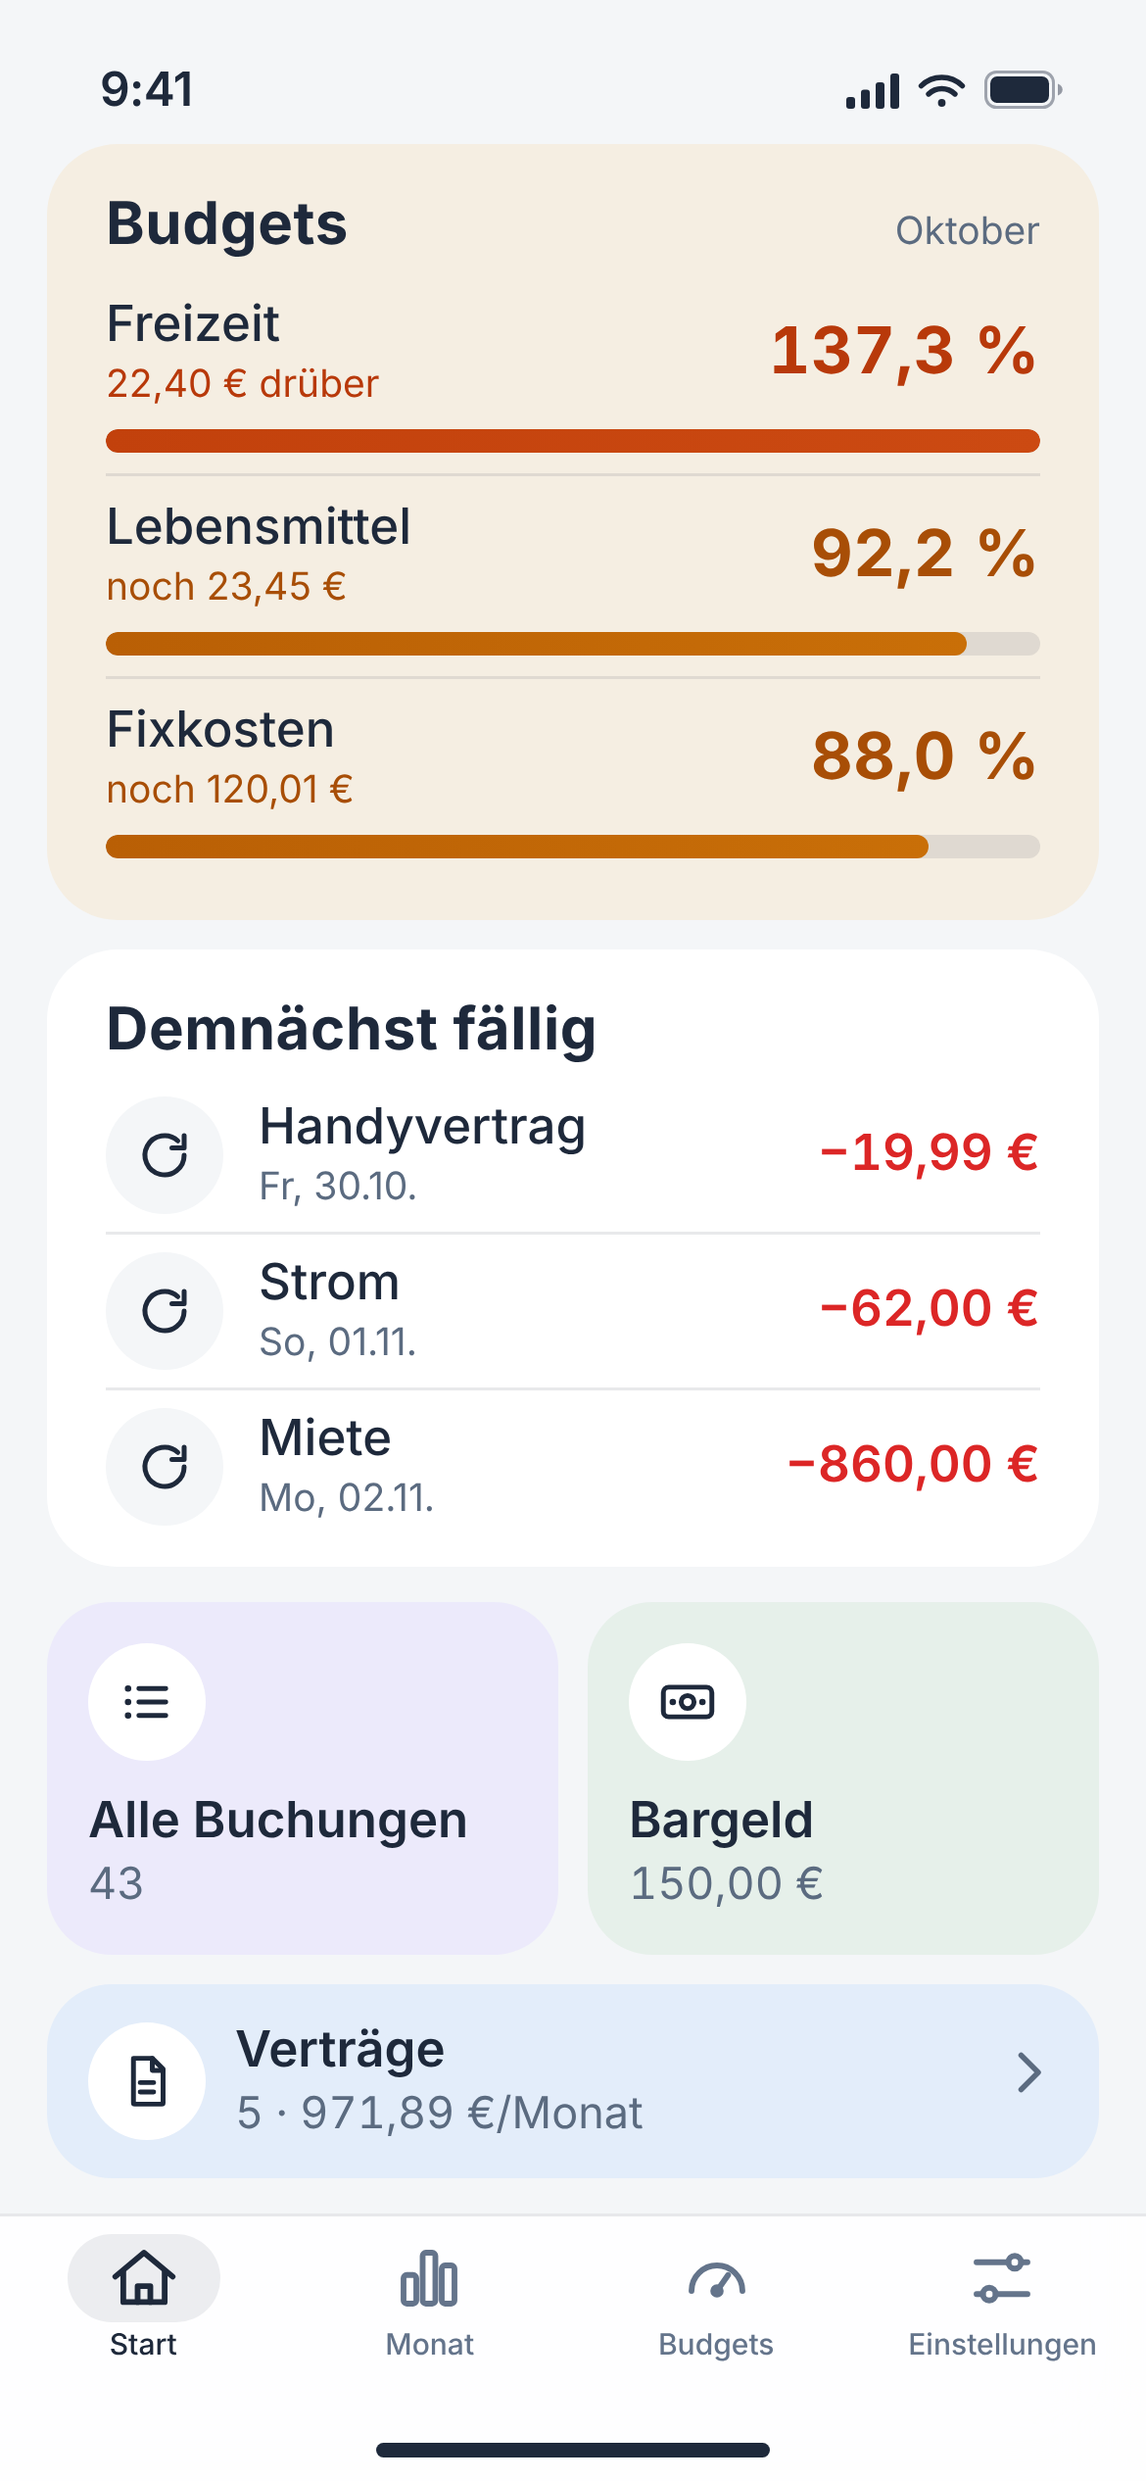
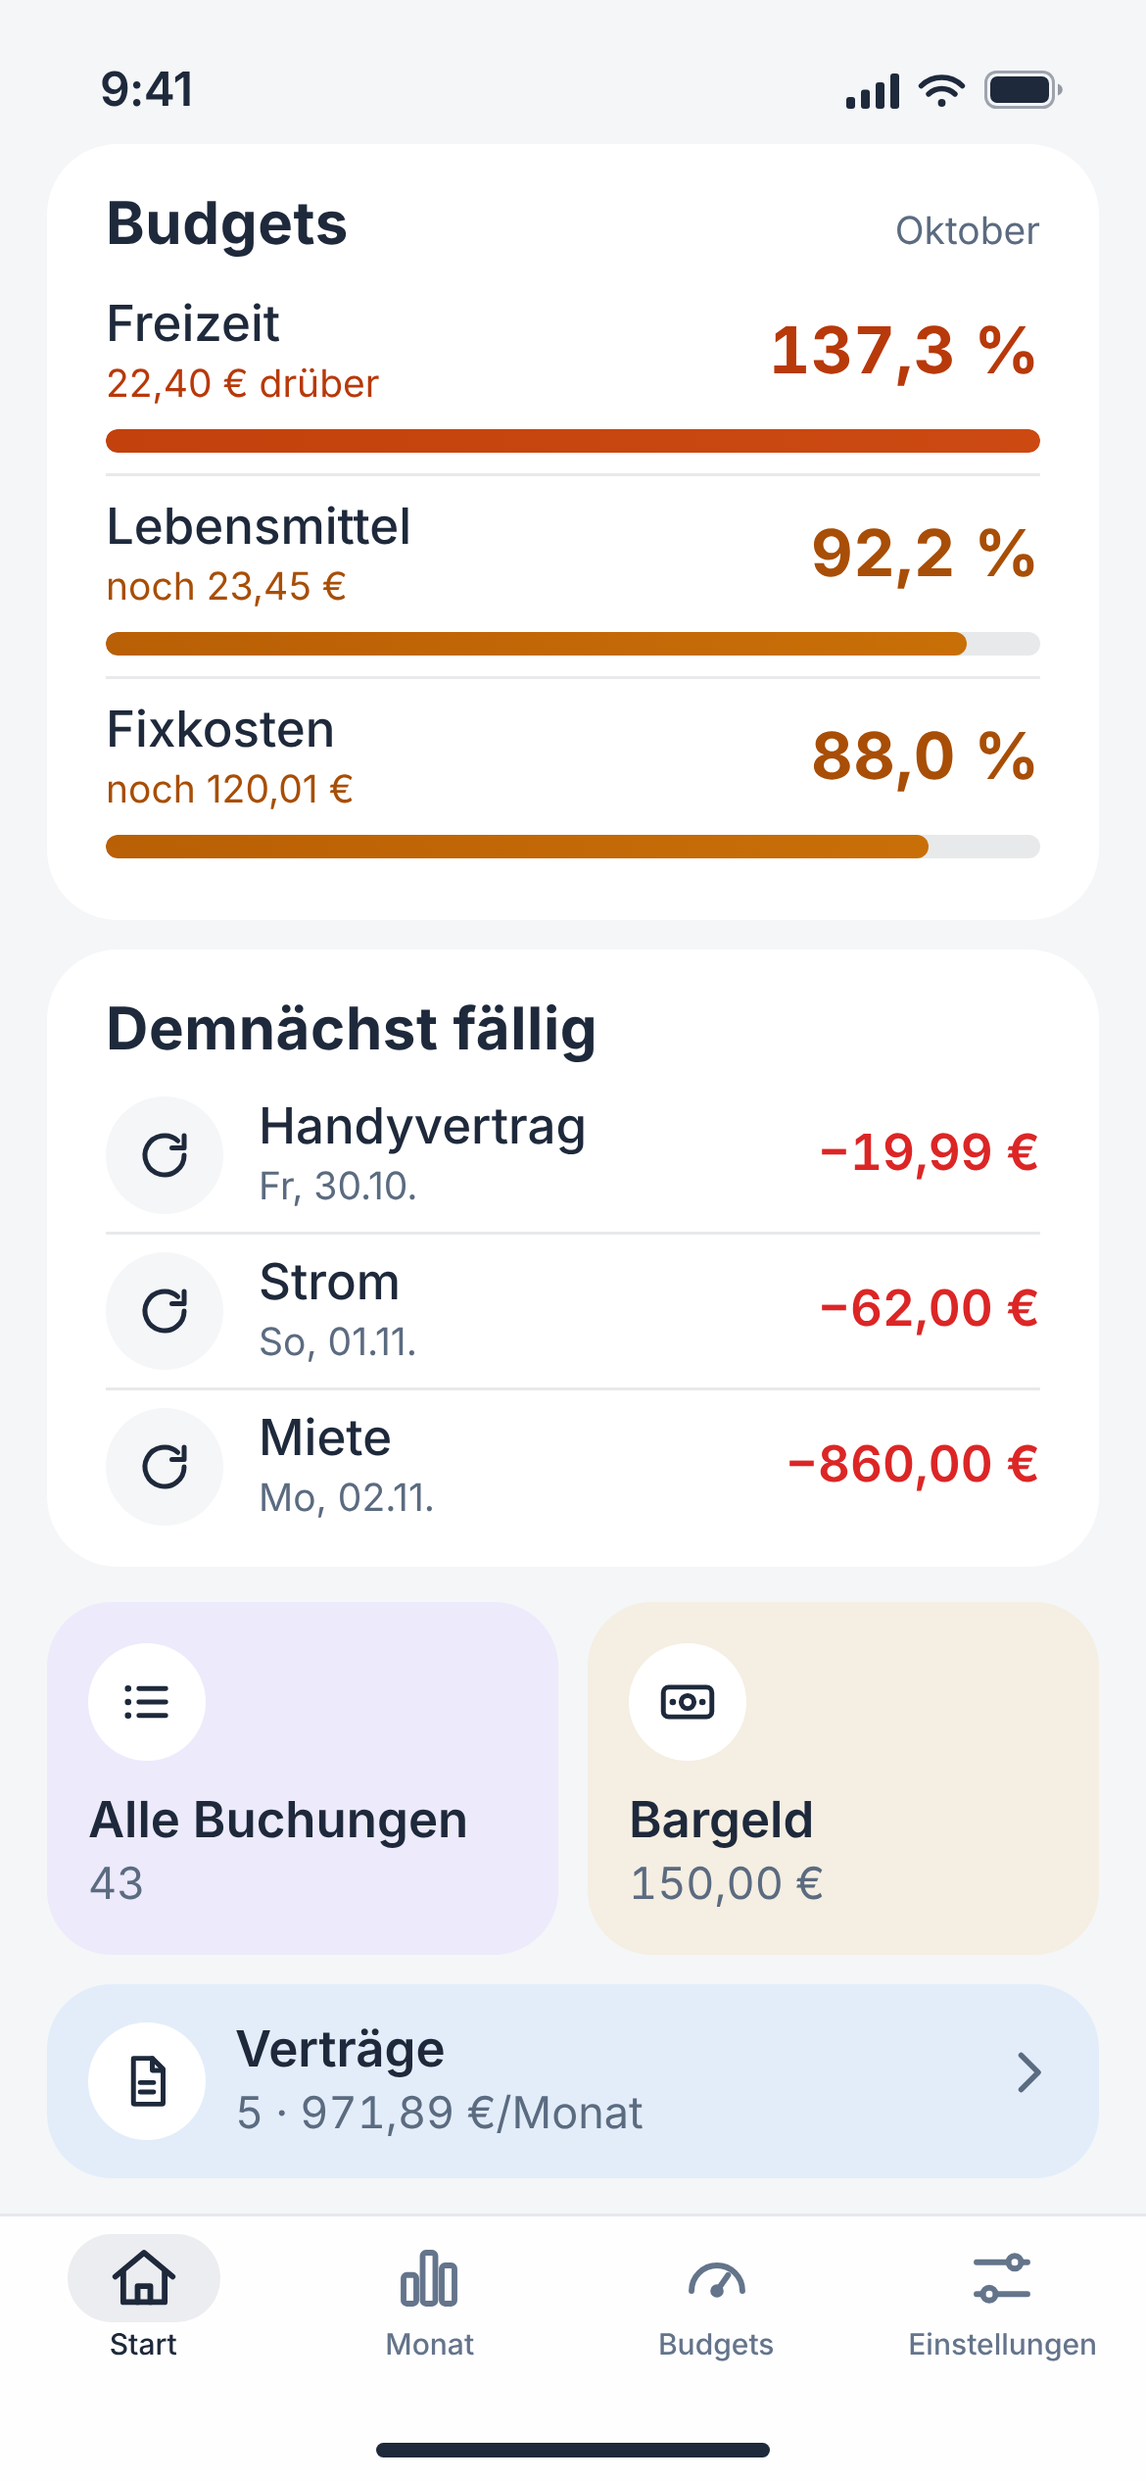
Design: Pastell-Entwurf Runde 2 (ruhigere Dunkel-Töne, Startseite unten neutral) + geordnete Bildpaare
Claude-Session: https://claude.ai/code/session_01SBWjZoX17egWDVw6WBmWHx

Changed region(s): [[0.0308, 0.0312, 0.9846, 0.3744]]

diff --git a/design/pastell/mockups/startunten.html b/design/pastell/mockups/startunten.html
@@ -5,10 +5,10 @@
 <svg width="18" height="12" viewBox="0 0 18 12" fill="currentColor"><rect x="0" y="8" width="3" height="4" rx="1"/><rect x="5" y="5.5" width="3" height="6.5" rx="1"/><rect x="10" y="3" width="3" height="9" rx="1"/><rect x="15" y="0" width="3" height="12" rx="1"/></svg>
 <svg width="17" height="12" viewBox="0 0 17 12" fill="none" stroke="currentColor" stroke-width="1.8" stroke-linecap="round"><path d="M1.5 4.2a10 10 0 0 1 14 0M4 7a6.4 6.4 0 0 1 9 0"/><circle cx="8.5" cy="10" r="1.3" fill="currentColor" stroke="none"/></svg>
 <svg width="27" height="13" viewBox="0 0 27 13" fill="none"><rect x=".5" y=".5" width="23" height="12" rx="3.6" stroke="currentColor" opacity=".4"/><rect x="2" y="2" width="20" height="9" rx="2.4" fill="currentColor"/><path d="M25 4.5v4c.9-.3 1.6-1.1 1.6-2s-.7-1.7-1.6-2z" fill="currentColor" opacity=".45"/></svg></span></div><div class="page scrolled snug">
-<section class="card section compact t-sand" aria-label="Budgets" style="margin-top:0"><div class="sec-head"><h2>Budgets</h2><span class="s muted" style="font-size:13px">Oktober</span></div>
+<section class="card section compact" aria-label="Budgets" style="margin-top:0"><div class="sec-head"><h2>Budgets</h2><span class="s muted" style="font-size:13px">Oktober</span></div>
 <div class="bud"><div class="bud-top"><div><div class="t">Freizeit</div><div class="s c-over">22,40 € drüber</div></div><span class="pct num c-over">137,3 %</span></div><div class="bar over"><i style="width:100%"></i></div></div><div class="bud"><div class="bud-top"><div><div class="t">Lebensmittel</div><div class="s c-warn">noch 23,45 €</div></div><span class="pct num c-warn">92,2 %</span></div><div class="bar warn"><i style="width:92.2%"></i></div></div><div class="bud"><div class="bud-top"><div><div class="t">Fixkosten</div><div class="s c-warn">noch 120,01 €</div></div><span class="pct num c-warn">88,0 %</span></div><div class="bar warn"><i style="width:88%"></i></div></div></section>
 <section class="card section compact plain" aria-label="Demnächst fällig" style="padding-bottom:8px;margin-top:10px"><div class="sec-head"><h2>Demnächst fällig</h2></div>
 <div class="row"><span class="ico"><svg width="20" height="20" viewBox="0 0 24 24" fill="none" stroke="currentColor" stroke-width="2" stroke-linecap="round" stroke-linejoin="round" aria-hidden="true"><path d="M20 12a8 8 0 1 1-2.6-5.9"/><path d="M20 4v5h-5"/></svg></span><div class="main"><div class="t">Handyvertrag</div><div class="s">Fr, 30.10.</div></div><span class="amt expense num">−19,99 €</span></div><div class="row"><span class="ico"><svg width="20" height="20" viewBox="0 0 24 24" fill="none" stroke="currentColor" stroke-width="2" stroke-linecap="round" stroke-linejoin="round" aria-hidden="true"><path d="M20 12a8 8 0 1 1-2.6-5.9"/><path d="M20 4v5h-5"/></svg></span><div class="main"><div class="t">Strom</div><div class="s">So, 01.11.</div></div><span class="amt expense num">−62,00 €</span></div><div class="row"><span class="ico"><svg width="20" height="20" viewBox="0 0 24 24" fill="none" stroke="currentColor" stroke-width="2" stroke-linecap="round" stroke-linejoin="round" aria-hidden="true"><path d="M20 12a8 8 0 1 1-2.6-5.9"/><path d="M20 4v5h-5"/></svg></span><div class="main"><div class="t">Miete</div><div class="s">Mo, 02.11.</div></div><span class="amt expense num">−860,00 €</span></div></section>
 <div class="tiles compact"><button class="tile t-lav"><span class="ico"><svg width="22" height="22" viewBox="0 0 24 24" fill="none" stroke="currentColor" stroke-width="1.8" stroke-linecap="round" stroke-linejoin="round" aria-hidden="true"><path d="M9 7h10M9 12h10M9 17h10"/><path d="M5 7h.01M5 12h.01M5 17h.01" stroke-width="2.4"/></svg></span><span><div class="l">Alle Buchungen</div><div class="v num">43</div></span></button>
-<button class="tile t-sage"><span class="ico"><svg width="22" height="22" viewBox="0 0 24 24" fill="none" stroke="currentColor" stroke-width="1.8" stroke-linecap="round" stroke-linejoin="round" aria-hidden="true"><rect x="3" y="6.5" width="18" height="11" rx="2"/><circle cx="12" cy="12" r="2.4"/><path d="M6.5 12h.01M17.5 12h.01" stroke-width="2.4"/></svg></span><span><div class="l">Bargeld</div><div class="v num">150,00 €</div></span></button>
+<button class="tile t-sand"><span class="ico"><svg width="22" height="22" viewBox="0 0 24 24" fill="none" stroke="currentColor" stroke-width="1.8" stroke-linecap="round" stroke-linejoin="round" aria-hidden="true"><rect x="3" y="6.5" width="18" height="11" rx="2"/><circle cx="12" cy="12" r="2.4"/><path d="M6.5 12h.01M17.5 12h.01" stroke-width="2.4"/></svg></span><span><div class="l">Bargeld</div><div class="v num">150,00 €</div></span></button>
 <button class="tile t-sky wide"><span class="ico"><svg width="22" height="22" viewBox="0 0 24 24" fill="none" stroke="currentColor" stroke-width="1.8" stroke-linecap="round" stroke-linejoin="round" aria-hidden="true"><path d="M7 3.5h7l4 4V20a.5.5 0 0 1-.5.5h-10A.5.5 0 0 1 7 20z"/><path d="M14 3.5V8h4"/><path d="M9.5 12.5h5M9.5 16h5"/></svg></span><span class="main"><div class="l">Verträge</div><div class="v num">5 · 971,89 €/Monat</div></span><span class="chev"><svg width="20" height="20" viewBox="0 0 24 24" fill="none" stroke="currentColor" stroke-width="2.2" stroke-linecap="round" stroke-linejoin="round" aria-hidden="true"><path d="m9 5 7 7-7 7"/></svg></span></button></div></div><nav class="tabbar" aria-label="Hauptnavigation"><div class="tabbar-in"><span class="tab" aria-current="page"><span class="ind"><svg width="26" height="26" viewBox="0 0 24 24" fill="none" stroke="currentColor" stroke-width="1.8" stroke-linecap="round" stroke-linejoin="round" aria-hidden="true"><path d="M3 11.5 12 4l9 7.5"/><path d="M5.5 10v9.5h13V10"/><path d="M10 19.5v-5h4v5"/></svg></span>Start</span><span class="tab" ><span class="ind"><svg width="26" height="26" viewBox="0 0 24 24" fill="none" stroke="currentColor" stroke-width="1.8" stroke-linecap="round" stroke-linejoin="round" aria-hidden="true"><rect x="4" y="11" width="4" height="9" rx="1"/><rect x="10" y="4" width="4" height="16" rx="1"/><rect x="16" y="8" width="4" height="12" rx="1"/></svg></span>Monat</span><span class="tab" ><span class="ind"><svg width="26" height="26" viewBox="0 0 24 24" fill="none" stroke="currentColor" stroke-width="1.8" stroke-linecap="round" stroke-linejoin="round" aria-hidden="true"><path d="M4 16a8 8 0 1 1 16 0"/><path d="m12 16 3.5-5"/><circle cx="12" cy="16" r="1.2"/></svg></span>Budgets</span><span class="tab" ><span class="ind"><svg width="26" height="26" viewBox="0 0 24 24" fill="none" stroke="currentColor" stroke-width="1.8" stroke-linecap="round" stroke-linejoin="round" aria-hidden="true"><path d="M4 7h10M18 7h2M4 17h2M10 17h10"/><circle cx="16" cy="7" r="2"/><circle cx="8" cy="17" r="2"/></svg></span>Einstellungen</span></div></nav><div class="home"></div></div></body></html>

diff --git a/design/pastell/mockups/pastell.css b/design/pastell/mockups/pastell.css
@@ -1,8 +1,8 @@
 /* Pastell-Entwurf Finanzklar. Alle Farben als Variablen; Dunkel über data-theme="dark". Statisches Mockup, keine App-Dateien. */
 :root {
-  --bg: #F4F6F8; --top: #E6ECF5; --card: #FFFFFF; --text: #1E293B; --text-2: #5B6B80;
+  --bg: #F4F6F8; --top: #ECEAF7; --card: #FFFFFF; --text: #1E293B; --text-2: #5B6B80;
   --sep: rgba(30,41,59,.10); --chip: rgba(255,255,255,.72); --chip-solid: #FFFFFF;
-  --lav: #ECEAFB; --sky: #E3EDFA; --sage: #E6F0EA; --sand: #F5EEE2;
+  --lav: #ECEAFB; --sky: #E3EDFA; --sage: #E8EDF2; --sand: #F5EEE2;
   --btn-bg: #1E293B; --btn-text: #FFFFFF; --ink-soft: rgba(30,41,59,.08);
   --income-text: #047857; --expense-text: #DC2626; --expense-text-t: #C81E1E; /* -t: auf Pastellflächen (Kontrast ≥ 4,5) */
   --ok: #475569; --ok-hi: #64748B; --warn: #B95F05; --warn-hi: #C96F08; --warn-text: #A84E06; --over: #C2410C; --over-hi: #CC4A12; --over-text: #B8390A;
@@ -13,9 +13,9 @@
   color-scheme: light;
 }
 :root[data-theme='dark'] {
-  --bg: #0F172A; --top: #1C2849; --card: #1E293B; --text: #F1F5F9; --text-2: #94A3B8;
+  --bg: #0F172A; --top: #22264A; --card: #1E293B; --text: #F1F5F9; --text-2: #94A3B8;
   --sep: rgba(148,163,184,.20); --chip: rgba(255,255,255,.09); --chip-solid: #334155;
-  --lav: #262A45; --sky: #1F2E44; --sage: #22322C; --sand: #33302A;
+  --lav: #282C47; --sky: #1F2E44; --sage: #253140; --sand: #2E2E36;
   --btn-bg: #F1F5F9; --btn-text: #0F172A; --ink-soft: rgba(241,245,249,.10);
   --income-text: #34D399; --expense-text: #F87171; --expense-text-t: #F87171;
   --ok: #94A3B8; --ok-hi: #CBD5E1; --warn: #FBBF24; --warn-hi: #FCD66B; --warn-text: #FBBF24; --over: #FB923C; --over-hi: #FDB27A; --over-text: #FB923C;

diff --git a/design/pastell/kontraste.md b/design/pastell/kontraste.md
@@ -30,12 +30,12 @@ Generiert von `scripts/kontraste.mjs`. Text ≥ 4,5:1 (große Schrift ≥ 24 px 
 | Betrag Ausgabe #C81E1E | Himmel | 4.85:1 | 4.5:1 | ok |
 | Warn-Text #A84E06 | Himmel | 4.73:1 | 4.5:1 | ok |
 | Über-Text #B8390A | Himmel | 4.90:1 | 4.5:1 | ok |
-| Haupttext #1E293B | Salbei | 12.55:1 | 4.5:1 | ok |
-| Sekundärtext #5B6B80 | Salbei | 4.67:1 | 4.5:1 | ok |
-| Beitrag Einnahme #047857 | Salbei | 4.70:1 | 4.5:1 | ok |
-| Betrag Ausgabe #C81E1E | Salbei | 4.92:1 | 4.5:1 | ok |
-| Warn-Text #A84E06 | Salbei | 4.80:1 | 4.5:1 | ok |
-| Über-Text #B8390A | Salbei | 4.97:1 | 4.5:1 | ok |
+| Haupttext #1E293B | Nebel | 12.42:1 | 4.5:1 | ok |
+| Sekundärtext #5B6B80 | Nebel | 4.62:1 | 4.5:1 | ok |
+| Beitrag Einnahme #047857 | Nebel | 4.66:1 | 4.5:1 | ok |
+| Betrag Ausgabe #C81E1E | Nebel | 4.10:1 | 4.5:1 | **FEHLER** |
+| Warn-Text #A84E06 | Nebel | 4.74:1 | 4.5:1 | ok |
+| Über-Text #B8390A | Nebel | 4.91:1 | 4.5:1 | ok |
 | Haupttext #1E293B | Sand | 12.69:1 | 4.5:1 | ok |
 | Sekundärtext #5B6B80 | Sand | 4.72:1 | 4.5:1 | ok |
 | Beitrag Einnahme #047857 | Sand | 4.76:1 | 4.5:1 | ok |
@@ -56,23 +56,23 @@ Generiert von `scripts/kontraste.mjs`. Text ≥ 4,5:1 (große Schrift ≥ 24 px 
 |---|---|---|---|
 | ok neutral #475569 | Lavendel | 6.40:1 | ok |
 | ok neutral #475569 | Himmel | 6.41:1 | ok |
-| ok neutral #475569 | Salbei | 6.50:1 | ok |
+| ok neutral #475569 | Nebel | 6.43:1 | ok |
 | ok neutral #475569 | Sand | 6.57:1 | ok |
 | warn #B95F05 | Lavendel | 3.77:1 | ok |
 | warn #B95F05 | Himmel | 3.78:1 | ok |
-| warn #B95F05 | Salbei | 3.83:1 | ok |
+| warn #B95F05 | Nebel | 3.79:1 | ok |
 | warn #B95F05 | Sand | 3.87:1 | ok |
 | warn (heller Verlaufsende) #C96F08 | Lavendel | 3.08:1 | ok |
 | warn (heller Verlaufsende) #C96F08 | Himmel | 3.08:1 | ok |
-| warn (heller Verlaufsende) #C96F08 | Salbei | 3.13:1 | ok |
+| warn (heller Verlaufsende) #C96F08 | Nebel | 3.09:1 | ok |
 | warn (heller Verlaufsende) #C96F08 | Sand | 3.16:1 | ok |
 | über #C2410C | Lavendel | 4.37:1 | ok |
 | über #C2410C | Himmel | 4.38:1 | ok |
-| über #C2410C | Salbei | 4.44:1 | ok |
+| über #C2410C | Nebel | 4.40:1 | ok |
 | über #C2410C | Sand | 4.49:1 | ok |
 | über (Verlaufsende) #CC4A12 | Lavendel | 3.89:1 | ok |
 | über (Verlaufsende) #CC4A12 | Himmel | 3.90:1 | ok |
-| über (Verlaufsende) #CC4A12 | Salbei | 3.95:1 | ok |
+| über (Verlaufsende) #CC4A12 | Nebel | 3.91:1 | ok |
 | über (Verlaufsende) #CC4A12 | Sand | 4.00:1 | ok |
 
 ## Dunkel
@@ -81,42 +81,42 @@ Generiert von `scripts/kontraste.mjs`. Text ≥ 4,5:1 (große Schrift ≥ 24 px 
 |---|---|---|---|---|
 | Haupttext #F1F5F9 | Hintergrund | 16.30:1 | 4.5:1 | ok |
 | Sekundärtext #94A3B8 | Hintergrund | 6.96:1 | 4.5:1 | ok |
-| Haupttext #F1F5F9 | Verlauf oben (Spitze) | 13.23:1 | 4.5:1 | ok |
-| Sekundärtext #94A3B8 | Verlauf oben (Spitze) | 5.65:1 | 4.5:1 | ok |
+| Haupttext #F1F5F9 | Verlauf oben (Spitze) | 13.27:1 | 4.5:1 | ok |
+| Sekundärtext #94A3B8 | Verlauf oben (Spitze) | 5.67:1 | 4.5:1 | ok |
 | Haupttext #F1F5F9 | Karte | 13.35:1 | 4.5:1 | ok |
 | Sekundärtext #94A3B8 | Karte | 5.71:1 | 4.5:1 | ok |
 | Beitrag Einnahme #34D399 | Karte | 7.61:1 | 4.5:1 | ok |
 | Betrag Ausgabe #F87171 | Karte | 5.29:1 | 4.5:1 | ok |
 | Warn-Text #FBBF24 | Karte | 8.76:1 | 4.5:1 | ok |
 | Über-Text #FB923C | Karte | 6.46:1 | 4.5:1 | ok |
-| Haupttext #F1F5F9 | Lavendel | 12.78:1 | 4.5:1 | ok |
-| Sekundärtext #94A3B8 | Lavendel | 5.46:1 | 4.5:1 | ok |
-| Beitrag Einnahme #34D399 | Lavendel | 7.28:1 | 4.5:1 | ok |
-| Betrag Ausgabe #F87171 | Lavendel | 5.06:1 | 4.5:1 | ok |
-| Warn-Text #FBBF24 | Lavendel | 8.39:1 | 4.5:1 | ok |
-| Über-Text #FB923C | Lavendel | 6.19:1 | 4.5:1 | ok |
+| Haupttext #F1F5F9 | Lavendel | 12.44:1 | 4.5:1 | ok |
+| Sekundärtext #94A3B8 | Lavendel | 5.31:1 | 4.5:1 | ok |
+| Beitrag Einnahme #34D399 | Lavendel | 7.09:1 | 4.5:1 | ok |
+| Betrag Ausgabe #F87171 | Lavendel | 4.92:1 | 4.5:1 | ok |
+| Warn-Text #FBBF24 | Lavendel | 8.16:1 | 4.5:1 | ok |
+| Über-Text #FB923C | Lavendel | 6.02:1 | 4.5:1 | ok |
 | Haupttext #F1F5F9 | Himmel | 12.51:1 | 4.5:1 | ok |
 | Sekundärtext #94A3B8 | Himmel | 5.34:1 | 4.5:1 | ok |
 | Beitrag Einnahme #34D399 | Himmel | 7.13:1 | 4.5:1 | ok |
 | Betrag Ausgabe #F87171 | Himmel | 4.95:1 | 4.5:1 | ok |
 | Warn-Text #FBBF24 | Himmel | 8.21:1 | 4.5:1 | ok |
 | Über-Text #FB923C | Himmel | 6.05:1 | 4.5:1 | ok |
-| Haupttext #F1F5F9 | Salbei | 12.28:1 | 4.5:1 | ok |
-| Sekundärtext #94A3B8 | Salbei | 5.25:1 | 4.5:1 | ok |
-| Beitrag Einnahme #34D399 | Salbei | 7.00:1 | 4.5:1 | ok |
-| Betrag Ausgabe #F87171 | Salbei | 4.86:1 | 4.5:1 | ok |
-| Warn-Text #FBBF24 | Salbei | 8.06:1 | 4.5:1 | ok |
-| Über-Text #FB923C | Salbei | 5.95:1 | 4.5:1 | ok |
-| Haupttext #F1F5F9 | Sand | 12.00:1 | 4.5:1 | ok |
-| Sekundärtext #94A3B8 | Sand | 5.13:1 | 4.5:1 | ok |
-| Beitrag Einnahme #34D399 | Sand | 6.84:1 | 4.5:1 | ok |
-| Betrag Ausgabe #F87171 | Sand | 4.75:1 | 4.5:1 | ok |
-| Warn-Text #FBBF24 | Sand | 7.88:1 | 4.5:1 | ok |
-| Über-Text #FB923C | Sand | 5.81:1 | 4.5:1 | ok |
+| Haupttext #F1F5F9 | Nebel | 12.04:1 | 4.5:1 | ok |
+| Sekundärtext #94A3B8 | Nebel | 5.14:1 | 4.5:1 | ok |
+| Beitrag Einnahme #34D399 | Nebel | 6.86:1 | 4.5:1 | ok |
+| Betrag Ausgabe #F87171 | Nebel | 4.77:1 | 4.5:1 | ok |
+| Warn-Text #FBBF24 | Nebel | 7.90:1 | 4.5:1 | ok |
+| Über-Text #FB923C | Nebel | 5.83:1 | 4.5:1 | ok |
+| Haupttext #F1F5F9 | Sand | 12.29:1 | 4.5:1 | ok |
+| Sekundärtext #94A3B8 | Sand | 5.25:1 | 4.5:1 | ok |
+| Beitrag Einnahme #34D399 | Sand | 7.00:1 | 4.5:1 | ok |
+| Betrag Ausgabe #F87171 | Sand | 4.87:1 | 4.5:1 | ok |
+| Warn-Text #FBBF24 | Sand | 8.06:1 | 4.5:1 | ok |
+| Über-Text #FB923C | Sand | 5.95:1 | 4.5:1 | ok |
 | Chip-Text #F1F5F9 | Chip (9 % Weiß auf #1F2E44) | 9.45:1 | 4.5:1 | ok |
 | Pillen-Text #CBD5E1 | Chip (9 % Weiß auf #1F2E44) | 6.97:1 | 4.5:1 | ok |
-| Chip-Text #F1F5F9 | Chip (9 % Weiß auf #262A45) | 9.67:1 | 4.5:1 | ok |
-| Soft-Pille „Überspringen“ #F1F5F9 | Chip (9 % Weiß auf #262A45) | 9.67:1 | 4.5:1 | ok |
+| Chip-Text #F1F5F9 | Chip (9 % Weiß auf #282C47) | 9.41:1 | 4.5:1 | ok |
+| Soft-Pille „Überspringen“ #F1F5F9 | Chip (9 % Weiß auf #282C47) | 9.41:1 | 4.5:1 | ok |
 | Hauptknopf-Text #0F172A | Hauptknopf #F1F5F9 | 16.30:1 | 4.5:1 | ok |
 | Tab inaktiv #94A3B8 | Tab-Leiste (Karte) | 5.71:1 | 4.5:1 | ok |
 | Haupttext Tab aktiv | Tab-Leiste | 10.62:1 | 4.5:1 | ok |
@@ -125,25 +125,25 @@ Generiert von `scripts/kontraste.mjs`. Text ≥ 4,5:1 (große Schrift ≥ 24 px 
 
 | Balken | auf | Verhältnis | Ergebnis |
 |---|---|---|---|
-| ok neutral #94A3B8 | Lavendel | 5.46:1 | ok |
+| ok neutral #94A3B8 | Lavendel | 5.31:1 | ok |
 | ok neutral #94A3B8 | Himmel | 5.34:1 | ok |
-| ok neutral #94A3B8 | Salbei | 5.25:1 | ok |
-| ok neutral #94A3B8 | Sand | 5.13:1 | ok |
-| warn #FBBF24 | Lavendel | 8.39:1 | ok |
+| ok neutral #94A3B8 | Nebel | 5.14:1 | ok |
+| ok neutral #94A3B8 | Sand | 5.25:1 | ok |
+| warn #FBBF24 | Lavendel | 8.16:1 | ok |
 | warn #FBBF24 | Himmel | 8.21:1 | ok |
-| warn #FBBF24 | Salbei | 8.06:1 | ok |
-| warn #FBBF24 | Sand | 7.88:1 | ok |
-| warn (heller Verlaufsende) #FCD66B | Lavendel | 9.98:1 | ok |
+| warn #FBBF24 | Nebel | 7.90:1 | ok |
+| warn #FBBF24 | Sand | 8.06:1 | ok |
+| warn (heller Verlaufsende) #FCD66B | Lavendel | 9.71:1 | ok |
 | warn (heller Verlaufsende) #FCD66B | Himmel | 9.77:1 | ok |
-| warn (heller Verlaufsende) #FCD66B | Salbei | 9.59:1 | ok |
-| warn (heller Verlaufsende) #FCD66B | Sand | 9.37:1 | ok |
-| über #FB923C | Lavendel | 6.19:1 | ok |
+| warn (heller Verlaufsende) #FCD66B | Nebel | 9.40:1 | ok |
+| warn (heller Verlaufsende) #FCD66B | Sand | 9.59:1 | ok |
+| über #FB923C | Lavendel | 6.02:1 | ok |
 | über #FB923C | Himmel | 6.05:1 | ok |
-| über #FB923C | Salbei | 5.95:1 | ok |
-| über #FB923C | Sand | 5.81:1 | ok |
-| über (Verlaufsende) #FDB27A | Lavendel | 7.89:1 | ok |
+| über #FB923C | Nebel | 5.83:1 | ok |
+| über #FB923C | Sand | 5.95:1 | ok |
+| über (Verlaufsende) #FDB27A | Lavendel | 7.67:1 | ok |
 | über (Verlaufsende) #FDB27A | Himmel | 7.72:1 | ok |
-| über (Verlaufsende) #FDB27A | Salbei | 7.58:1 | ok |
-| über (Verlaufsende) #FDB27A | Sand | 7.41:1 | ok |
+| über (Verlaufsende) #FDB27A | Nebel | 7.43:1 | ok |
+| über (Verlaufsende) #FDB27A | Sand | 7.58:1 | ok |
 
-**Fehler/Warnungen gesamt: 0**
+**Fehler/Warnungen gesamt: 1**
